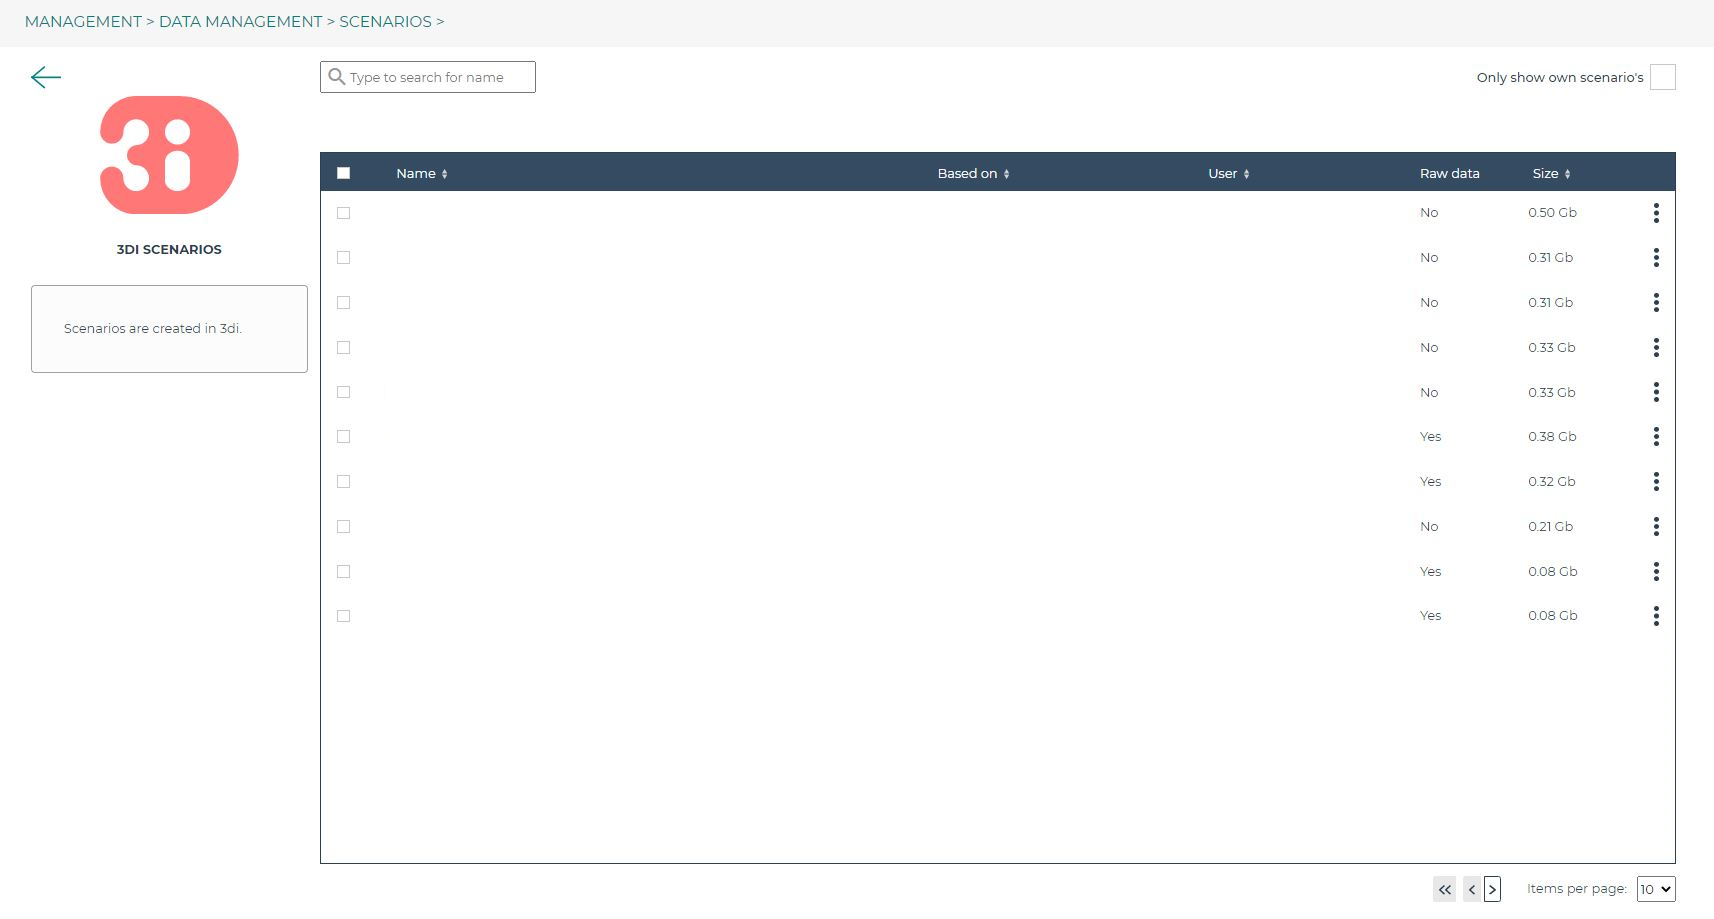
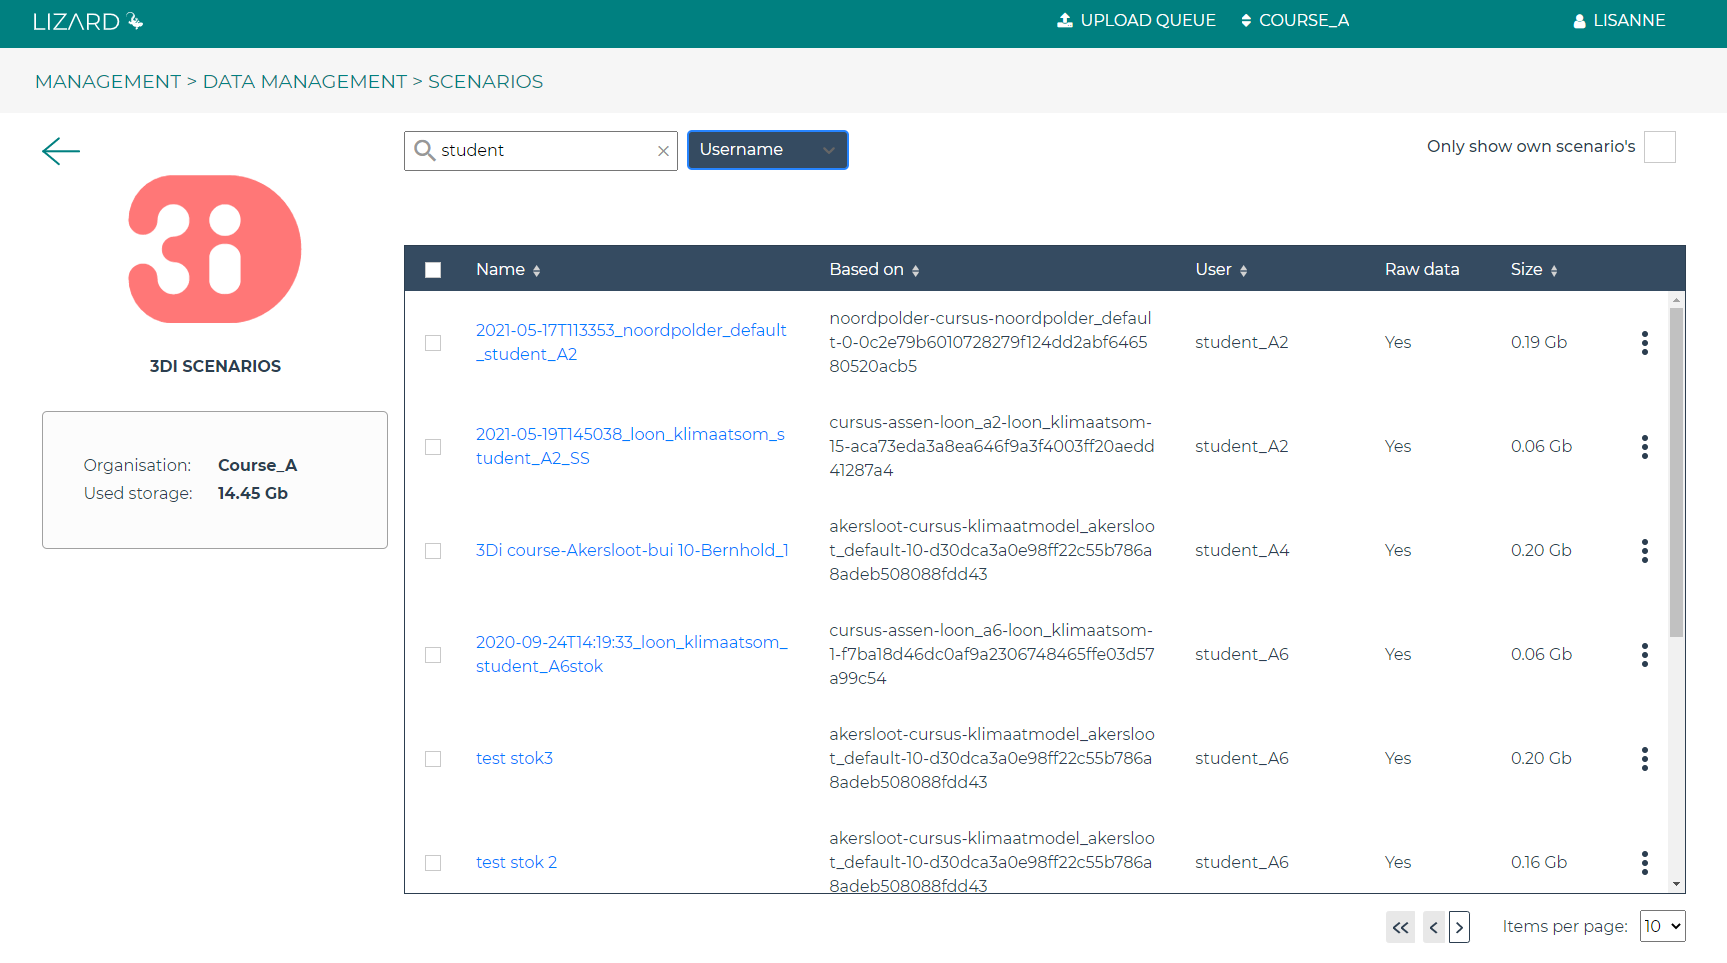
updates after release 2 June
Update timseries en scenario management and some small changes

diff --git a/source/b_usermanagement.rst b/source/b_usermanagement.rst
@@ -30,14 +30,15 @@ On the login page you have four different options to sign in:
 First-time users may choose any of these options. If your company is listed as
 one of the possible companies to sign in with, that is the preferred choice.
 
-.. tip::
-    Do you want to add your company to the list to centralize the user accounts
-    of your organisation? Please contact our support office
-    (servicedesk@nelen-schuurmans.nl) for the options.
-
 Existing users should use the same method as they used when signing in for 
 the first time. If your Lizard username/password existed before Januari 2021,
 use method 3.
+
+.. tip::
+    Do you want to add your company to the list to centralise the user accounts
+    of your organisation? Please contact our support office
+    (servicedesk@nelen-schuurmans.nl) for the options.
+
 
 .. _OrganisationsAnchor:
 
@@ -53,7 +54,7 @@ There are three types of authorisation options that can be applied to your data:
 * **Common**: everyone with login credentials to Lizard can see your data 
 * **Private**: everyone with login credentials to Lizard AND user rights to your organisation can see your data
 
-.. image:: /images/b_usermanagement_01.png
+
 
 Whitelisting
 ============
@@ -64,6 +65,10 @@ This is configured by whitelisting the organisations that are allowed to show th
 
 The effect is that for the same user the available data can differ between e.g. [your_organisation].lizard.net and demo.lizard.net (for which all organisations are whitelisted).
 The whitelisting mechanism is overruled if a user has specific authorisation for an organisation.
+
+.. tip::
+    Do you want to see or change the whitelist settings of a portal? Please contact our support office
+    (servicedesk@nelen-schuurmans.nl).
 
 =====
 Roles
@@ -76,7 +81,6 @@ We have 4 roles and 3 different types of privileges.
 * An **administator**, who can *read* data and change (*'write'*) all organisation's data. 
 * A **manager**, who can *manage* other roles in the organisation. A manager can not read or write data by default. This role should be appointed separately. 
 
-.. image:: /images/b_usermanagement_02.png
 
 ===============	
 User management
@@ -85,35 +89,49 @@ User management
 Users can be managed in the User Management interface.
 This interface can be reached via the {yourorganisation}.lizard.net/management/users/ (or `demo.lizard.net/management/users <https://demo.lizard.net/management/users>`_).
 
-.. image:: /images/b_usermanagement_03.png
-
 .. note::
     You require a “manager” role to access the User Management interface.
     Haven’t got a “manager” role but you would like to add the User Management interface?
     Please contact the application manager within your organisation or our support office (servicedesk@nelen-schuurmans.nl)
 	
+.. image:: /images/b_usermanagement_03.png
+
+In the example above, you see the current rights for 7 users under the organisation Nelen & Schuurmans. 
+	
 Manage existing users
 =====================
 
 The User Management interface gives you an overview of all users that have roles for your organisation.
-If you are Manager for multiple organisations you can switch organisation using the button in the dark green bar. You can change the role of a user by clicking the ““ button and choose the roles you want to assign. Then click “Save” to make the changes. 
+If you are Manager for multiple organisations you can switch organisation using the button in the dark green bar. You can change the role of a user by clicking the “three dots" next to the user and choose the roles you want to assign. Then click “Save” to make the changes. 
 
 Adding a new user
 =================
 
+You can add a new user by clicking the “NEW ITEM” icon in the upper right corner.
+
+.. image:: /images/c_manage_newitem.png
+
+This will lead you to the screen to add a new user.
+
 .. image:: /images/b_usermanagement_04.png
 
-You can add a new user by clicking the “NEW USER” in the upper right corner.
-This will lead you to the screen to add a new user.
-By default the new user is granted a “User” role. 
-
-.. note::
-    The invitated user is required to sign in with the email address that is supplied by the manager.
-
+By default the new user is granted a “User” role. At least one role is required when invite a new user.  
 Do not forget to click ‘Save’! When saved, an invitation email will be sent to the new user.
 This user can follow the invitation link to (if necessary) create an account and receive the new roles.
-Sometimes this invitation mail will end up in the spam folder. 
+The user will appear in the user management overview once they accepted the invite and created the account.
 
+.. note::
+    Sometimes this invitation mail will end up in the spam folder. 
+
+.. note::
+    The invitated user is required to sign in with the email address that is supplied by the manager. This email address can't be changed later on. 
+
+.. note::
+	Deselect all roles will remove the user from the organisation but will not delete the user's account.
+
+.. note::
+	You cannot remove your own manager role.	
+	
 .. tip::
-	Forgot which Roles exist and what they grant a user? Click the “Need Help” button to find this overview:  
-.. image:: /images/b_usermanagement_05.png
+	Click on 'Pending Users', to see who have not completed the acitvation process yet. 	
+

diff --git a/source/c_timeseries.rst b/source/c_timeseries.rst
@@ -7,6 +7,48 @@ The data management interface for timeseries can be used to upload, edit or remo
 
 .. image:: /images/c_manage_timeseries_menu.png	
 
+
+----------
+Locations
+----------
+
+.. image:: /images/c_manage_locations_01.png	
+
+
+Search or sort your locations here.
+Check out possible actions by clicking the three dots icon.
+Create a new object with the New Item button on the top right corner.
+
+
+.. image:: /images/c_manage_newitem.png
+
+.. image:: /images/c_manage_locations_02.png	
+
+1. GENERAL
+------------
+
+* Location name (required): Choose a name that is findable and not too difficult
+* Code (required): Choose a code that represents the object within your organisation.
+
+
+2. DATA
+------------	
+
+.. warning::
+    Locations must be connected to an existing asset to be visualised in the portal. The asset will have a symbol and zoom level depending on the type. Also, the metadata differs per type. For now, only measuringstations can be added via the API. If you have any questions about this, please contact the service desk. 
+	
+* Asset type (optional): Specify a type of asset.  
+* Asset location: after specifying the asset type, you can search by code or name. 
+* Extra metadata (JSON) (optional): Free JSON field to add information to this object.
+
+3. RIGHTS
+------------
+
+* Accessibility (required, private by default): Choose an access modifier to decide who has access to this object. 
+
+
+If you are satisfied, click "SAVE"
+
 ------------
 Timeseries
 ------------
@@ -34,10 +76,30 @@ Create a new object with the New Item button on the top right corner.
 * Observation type (required): Choose the way the data is measured, and the units. New observation types can be added via the `api <https://demo.lizard.net/api/v4/observationtypes/>`_ or requested via the servicedesk.
 * Location (required): Choose to which location you want to add this timeseries. New locations can be added via the api or via data management --> timeseries --> locations.
 * Value type (required): Specify what kind of data you will be supplying. See `Level of measurement <https://en.wikipedia.org/wiki/Level_of_measurement>`_.
+* Datasource (optional): Specify a data source if it is available. Otherwise, you can leave it empty or create a new one via the API. 
 * Interval (optional): Specify a time range between each time series step.
 
 .. note::
 	if you leave the interval at 0, it will mean it is irregular ('nonequidistant') data. This is also necessary if you have timesteps smaller than seconds. 
+	
+* CSV Files (optional): You can add new data via a csv file or via the API. If you want to supply a csv file, see the instructions below:
+
+.. note::
+	The first line of the file should describe the column names, for example:
+
+	| time, value
+	| 2020-03-20T01:00:00Z, 3.14 
+	| 2020-03-20T01:05:00Z, 2.72
+	
+	The next lines are the timestemp and value for that timestep. Make sure you do not list the same timestep twice. 
+	All uploads in Lizard are expected to be in UTC time. 
+
+	| time: ISO 8601 date and time representation. This is a required field. 
+	| value: A number, string, or boolean, depending on the value_type of the corresponding time series. 
+
+
+* Extra metadata (JSON) (optional): Free JSON field to add information to this object.
+
 
 3. RIGHTS
 ------------
@@ -88,46 +150,7 @@ Create a new object with the New Item button on the top right corner.
 If you are satisfied, click "SAVE"
 
 
-----------
-Locations
-----------
 
-.. image:: /images/c_manage_locations_01.png	
-
-
-Search or sort your locations here.
-Check out possible actions by clicking the three dots icon.
-Create a new object with the New Item button on the top right corner.
-
-
-.. image:: /images/c_manage_newitem.png
-
-.. image:: /images/c_manage_locations_02.png	
-
-1. GENERAL
-------------
-
-* Location name (required): Choose a name that is findable and not too difficult
-* Code (required): Choose a code that represents the object within your organisation.
-
-
-2. DATA
-------------	
-
-.. warning::
-    Locations must be connected to an existing asset to be visualised in the portal. The asset will have a symbol and zoom level depending on the type. Also, the metadata differs per type. For now, only measuringstations can be added via the API. If you have any questions about this, please contact the service desk. 
-	
-* Asset type (optional): Specify a type of asset.  
-* Asset location: after specifying the asset type, you can search by code or name. 
-
-
-3. RIGHTS
-------------
-
-* Accessibility (required, private by default): Choose an access modifier to decide who has access to this object. 
-
-
-If you are satisfied, click "SAVE"
 
 
 

diff --git a/source/c_scenarios.rst b/source/c_scenarios.rst
@@ -2,7 +2,49 @@
 3Di scenarios
 ==============
 
-.. warning::
-    This section will be extended in the near future.
+The data management interface for scenarios can be used to edit or remove scenarios.
 
 .. image:: /images/c_manage_3discenarios.png	
+
+
+Search for a scenario
+------------------------
+
+You can search for a scenario by either typing (part of) the scenario name, the UUID, username of the supplier or model name. 
+
+.. image:: /images/c_manage_3discenarios_search.png	
+
+You can also specify that you only want to show your own scenario's by ticking the box in the top right corner.
+
+Used storage and deletion of scenarios
+-----------------------------------------
+
+.. image:: /images/c_manage_3discenarios_storage.png	
+
+In the left side, you can see the used storage for your organisation. This may have influence on your subscription.
+
+.. image:: /images/c_manage_3discenarios_delete1.png	
+
+If you want to remove a complete scenario, you simply check the box of the relevant scenario(s) and choose 'delete'. If you choose 'delete raw', it will only remove the Calculation Core Logging, Raw 3Di Output, Grid Administration and Aggregated 3Di Output. You can also remove a specific raster of a scenario by double-clicking on a scenario and clicking on the 'trash' icon next to the layer.
+
+.. image:: /images/c_manage_3discenarios_delete2.png	 
+
+.. warning::
+	If you delete a scenario, it is really gone! We might be able to retrieve the rasters if you contact support within 14 days.  
+	
+	
+Edit a scenario
+----------------
+
+Right now you can only edit the accessability of a scenario.
+Scenarios are private by default (only visible for logged in users of the same organisation). 
+You can choose to make them visible for all logged in users or even public so no login is necessary.
+
+.. image:: /images/c_manage_3discenarios_public.png
+
+
+.. tip::
+	Make scenarios public if you want to use them in other GIS applications via a `wms link <https://docs.lizard.net/e_lizardwms.html#di-scenarios>`_. 
+	
+
+	

diff --git a/source/c_apifunctional.rst b/source/c_apifunctional.rst
@@ -50,17 +50,14 @@ If you are an administrator or supplier of the data, you can also edit or delete
 Versions
 ========
 
-We support three versions of our API:
+We support two versions of our API:
 
-* API v2: deprecated
 * API v3: stable
 * API v4: experimental
 
-The API V2 is deprecated and we advise not to use this API for developing purposes.
-API V2 will disappear in the near future.
-API V3 is the stable version of API and can be used for developing purposes.
-API V4 can be used in cooperation with our dev-team.
-API V4 is used to develop new features.
+
+API V3 is the stable version of API. We may add new features, but it should not break existing endpoints. 
+API V4 is used to develop new features. 
 
 Digitale Delta API
 ------------------

diff --git a/source/a_releasenotes.rst b/source/a_releasenotes.rst
@@ -8,12 +8,18 @@
 Release Notes
 =============
 
+
+June 2021 Release
+=====================
+We’re happy to announce the newest release of Lizard Management.
+If you have questions about this release or if you’re interested in features please contact us via info@lizard.net
+
+
 February 2021 Release
 =====================
 We’re happy to announce the newest release of Lizard Management and Lizard Catalogue.
 If you have questions about this release or if you’re interested in features please contact us via info@lizard.net
 
-This section will be extended in the coming days. 
 
 
 November 2019 Release

diff --git a/source/d_apitechnical.rst b/source/d_apitechnical.rst
@@ -90,7 +90,7 @@ every request, either directly in Username and Password headers, or using
 HTTP Basic Authentication. This legacy authentication does generate a session.
 
 .. warning::
-	This form of authentication will be deprecated on *June 1st, 2021*. Ensure
+	This form of authentication has been deprecated on *June 1st, 2021*. Ensure
 	that your applications and scripts use new API Keys after that date.
 
 In the period until June 1st, 2021, correct username / password combinations

diff --git a/source/index.rst b/source/index.rst
@@ -42,7 +42,7 @@ Welcome to the Lizard documentation!
 
    d_datatypes
    d_general
-   d_apifunctional
+   c_apifunctional
    d_apitechnical
    d_apitutorials
    d_ftpimporter
